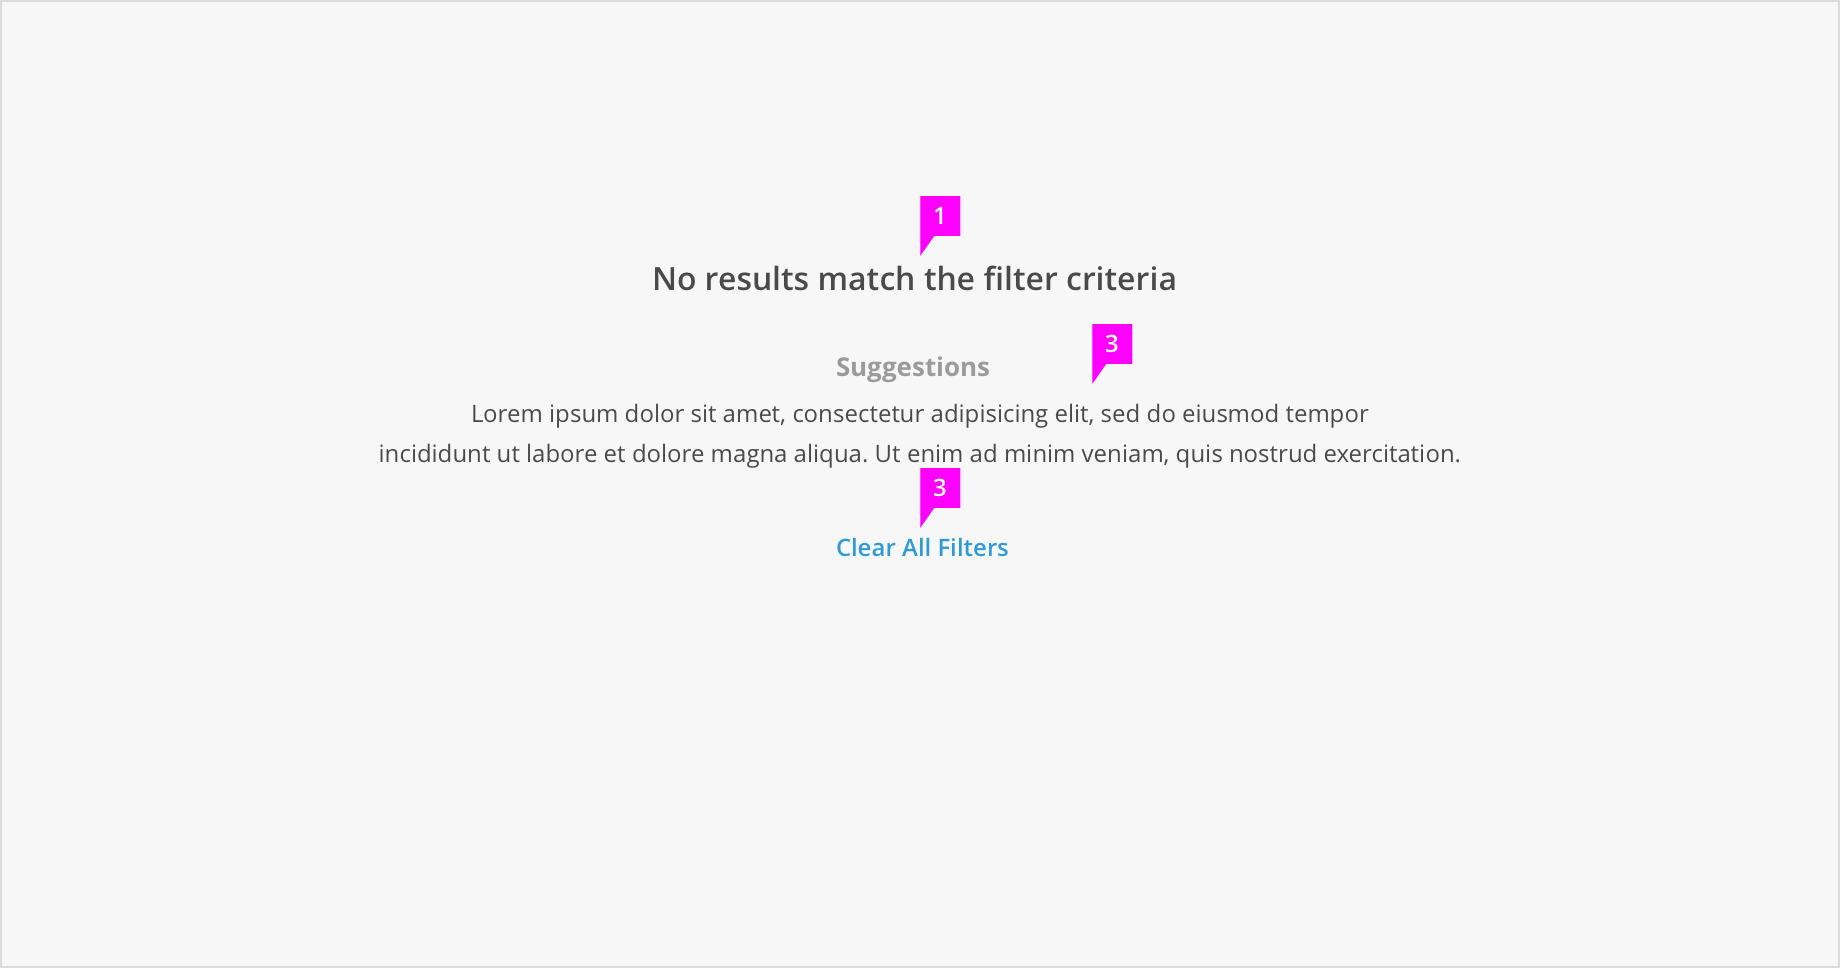
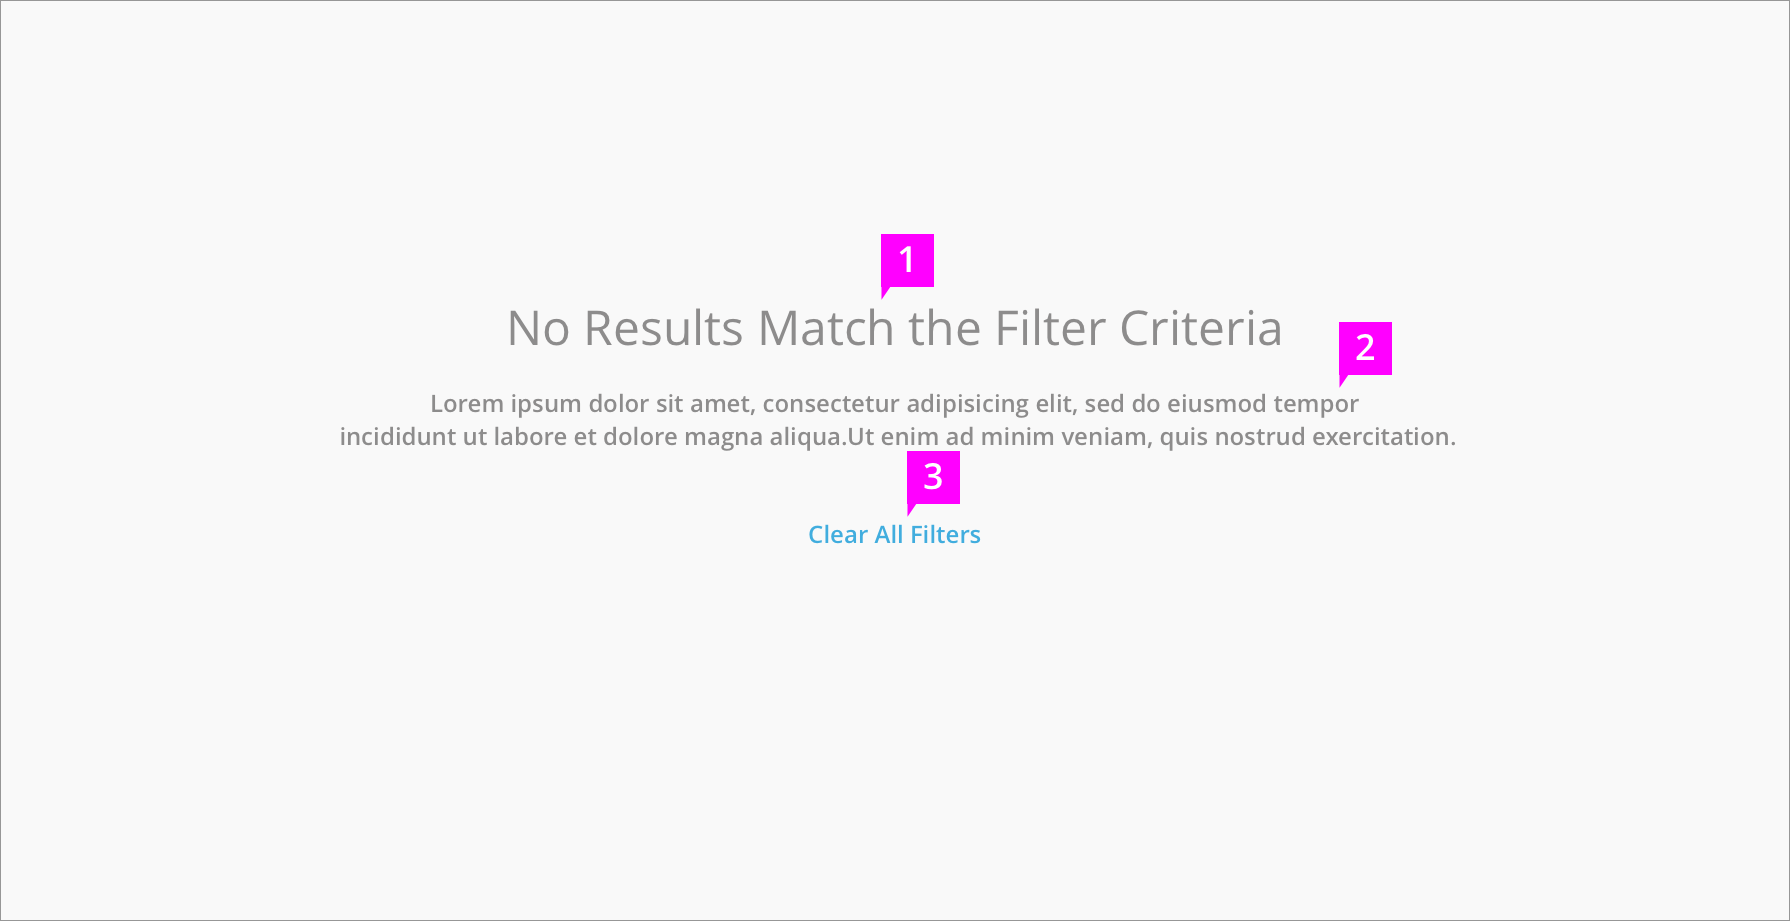
Fix visual inconsistencies with the empty state shown on the Filter pattern
Update the null result page to the similar review visual look & feel of empty states for consistency.
https://github.com/patternfly/patternfly-design/issues/473

diff --git a/pattern-library/forms-and-controls/filter/design/design.md b/pattern-library/forms-and-controls/filter/design/design.md
@@ -25,16 +25,17 @@ Possible filter triggers include:
 
 ## Displaying a Null Result Set
 If the current set of active filters returns 0 results, an empty state message will appear within the current view.
+
 ![filtered view with a null results set](img/filter-null-callout.png)
+
+The style of null results is similar with [Empty State](http://www.patternfly.org/pattern-library/communication/empty-state/#code).
 1. **Message**: Alert user that there are 0 results based on the filter criteria
 1. **Suggestions**: A brief message suggesting how to fix the problem.
 1. **Clear All Filters**: Clicking this will clear all applied filters and restore content to this view.
-1. **Background**: The background color of this form will match the color of the current view. Note that in [Table View](http://www.patternfly.org/pattern-library/content-views/table-view/), the background color is white.
+
 
 This message will always be displayed within the current view and the Toolbar will remain active so that the user can modify filter criteria.
 
-Null Result Set in [Card](http://www.patternfly.org/pattern-library/content-views/card-view/) or [List View](http://www.patternfly.org/pattern-library/content-views/list-view/)
-![card view with a null results set](img/filter-null-card.png)
+Null Result Set in [Card](http://www.patternfly.org/pattern-library/content-views/card-view/) , [List View](http://www.patternfly.org/pattern-library/content-views/list-view/) and [Table View](http://www.patternfly.org/pattern-library/content-views/table-view/)
 
-Null Results in [Table View](http://www.patternfly.org/pattern-library/content-views/table-view/)
-![table view with a null results set](img/filter-null-table.png)
+![card view with a null results set](img/filter-null-card.png)
